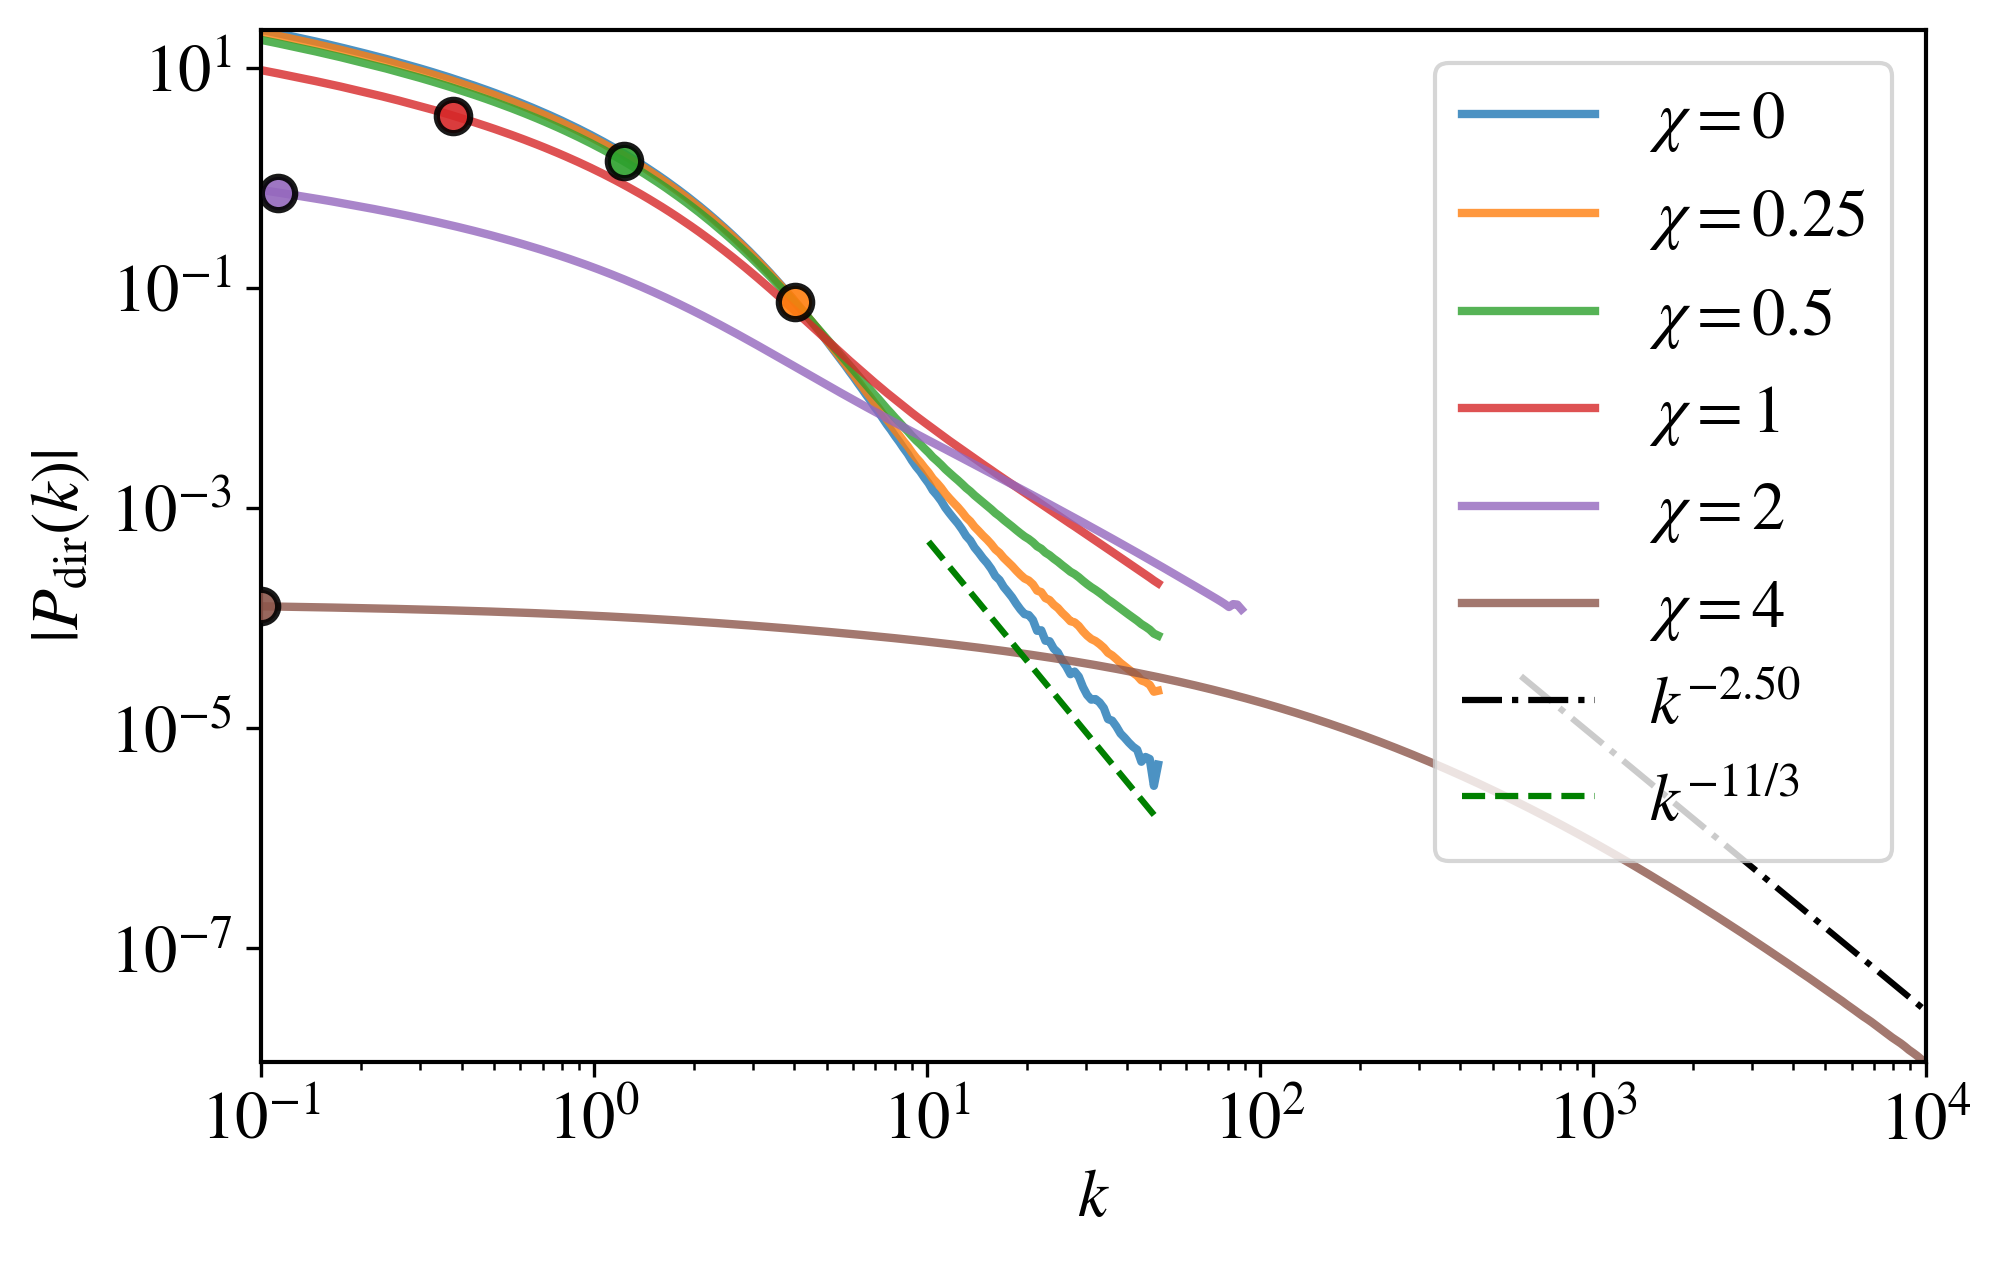
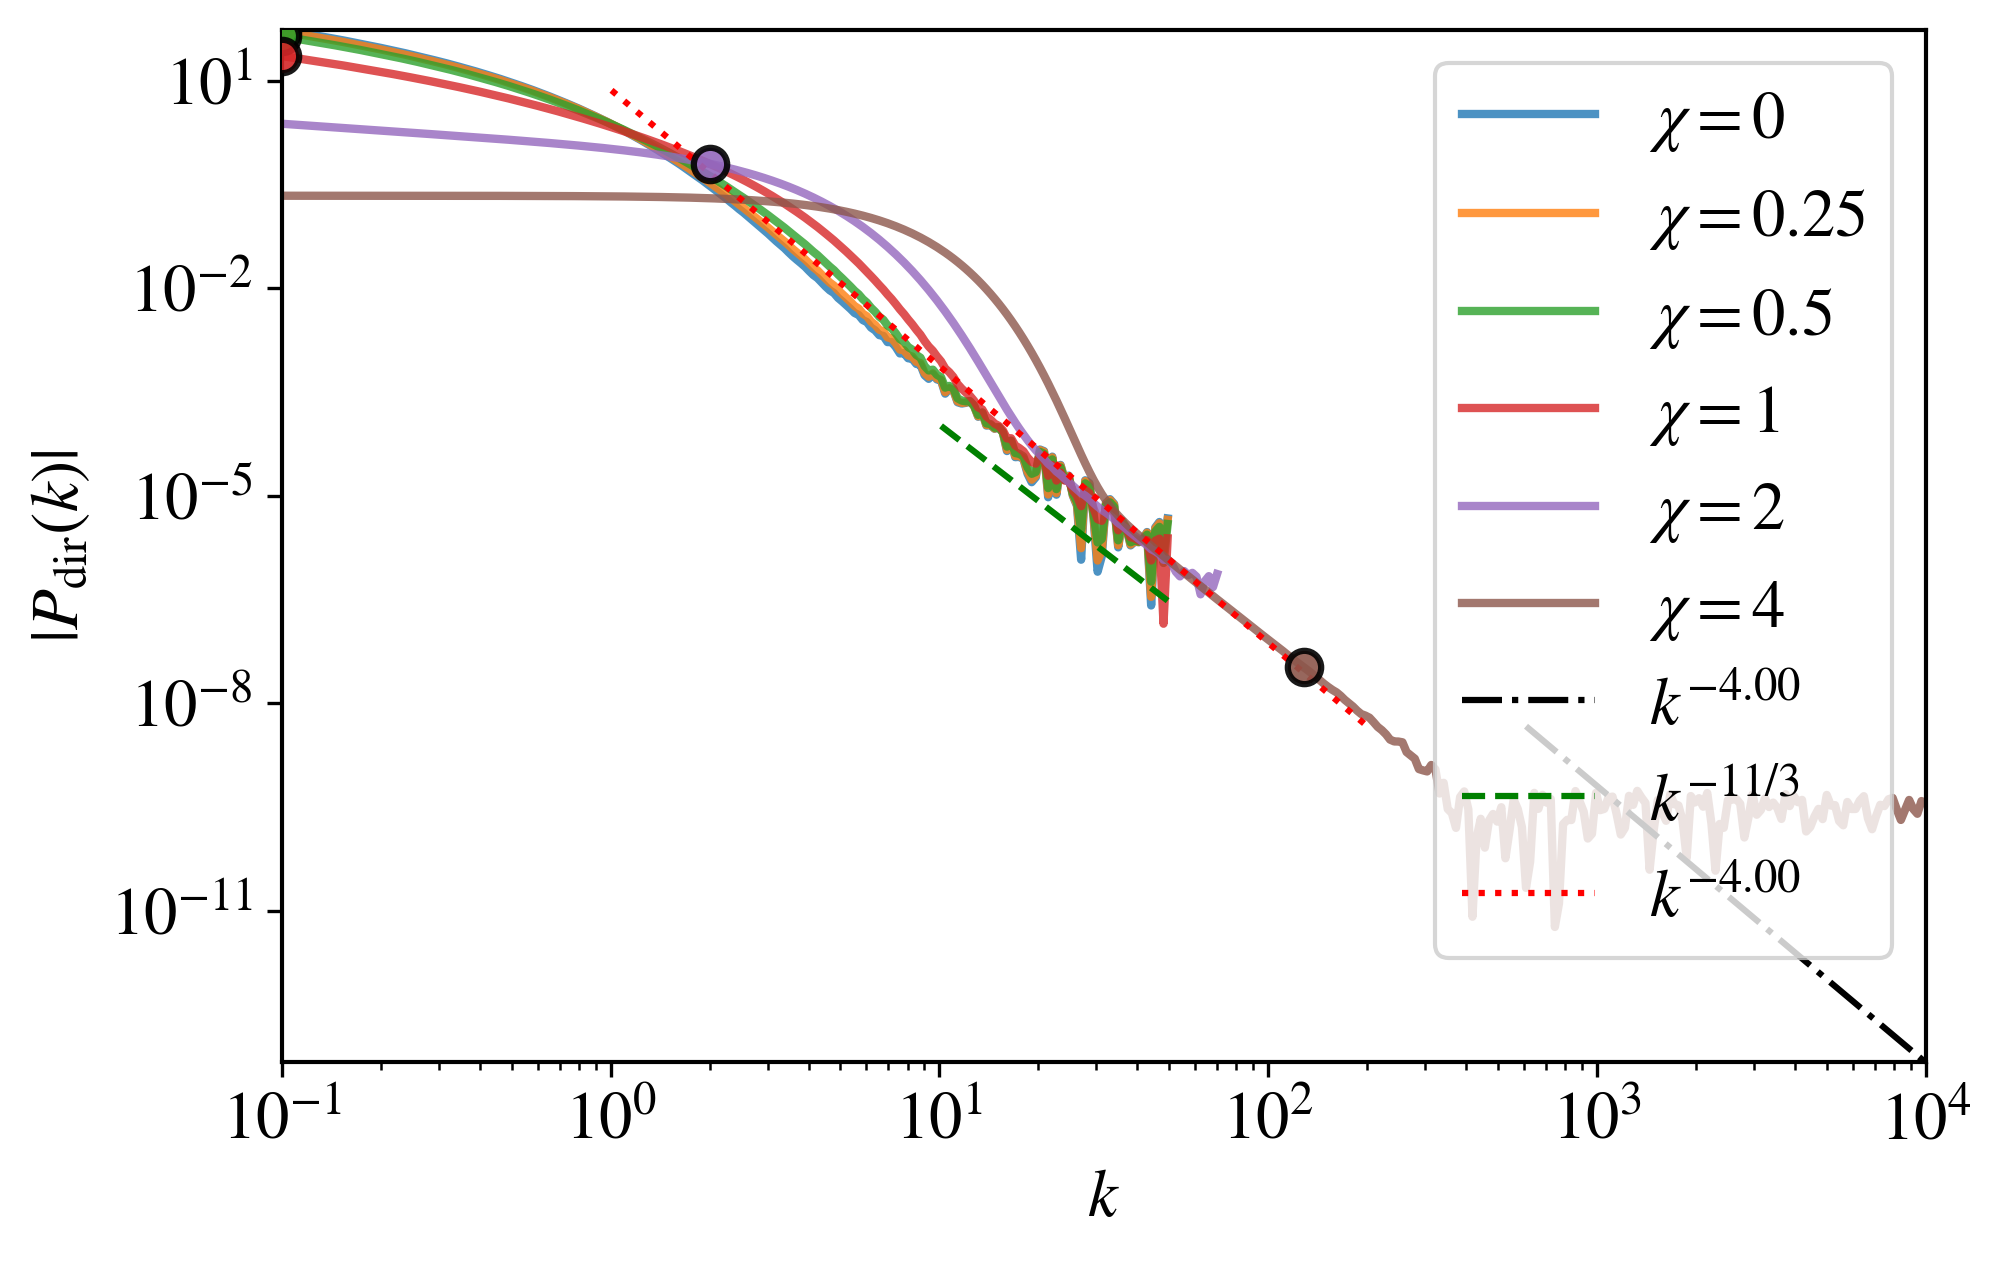
m_phi>m_psi case

diff --git a/compare_measures/directional_spectrum/theor_prediction_director/henkel.py b/compare_measures/directional_spectrum/theor_prediction_director/henkel.py
@@ -59,68 +59,20 @@ def compute_Pdir(k, integrand, Rmax, n_points=50000, Rmin=1e-8):
     val = trapezoidal_integral(integrand_values, R)
     return 2*np.pi * val
 
-def compute_second_derivative(k, Pdir, smoothing_window=10):
-    """
-    Compute the second derivative of log(Pdir) with respect to log(k).
-    Returns k values and second derivative values.
-    """
-    # Filter valid data
-    valid = (np.isfinite(Pdir)) & (Pdir > 0) & (k > 0)
-    if np.sum(valid) < 5:
-        return np.array([]), np.array([])
-    
-    k_valid = k[valid]
-    Pdir_valid = Pdir[valid]
-    
-    # Work in log space
-    log_k = np.log(k_valid)
-    log_Pdir = np.log(Pdir_valid)
-    
-    # Smooth the log data to reduce noise
-    if len(log_Pdir) > smoothing_window:
-        # Simple moving average smoothing
-        half_window = smoothing_window // 2
-        log_Pdir_smooth = np.zeros_like(log_Pdir)
-        for i in range(len(log_Pdir)):
-            start = max(0, i - half_window)
-            end = min(len(log_Pdir), i + half_window + 1)
-            log_Pdir_smooth[i] = np.mean(log_Pdir[start:end])
-    else:
-        log_Pdir_smooth = log_Pdir
-    
-    # Compute first derivative (slope in log-log space)
-    dlogP_dlogk = np.gradient(log_Pdir_smooth, log_k)
-    
-    # Smooth the first derivative
-    if len(dlogP_dlogk) > smoothing_window:
-        half_window = smoothing_window // 2
-        dlogP_dlogk_smooth = np.zeros_like(dlogP_dlogk)
-        for i in range(len(dlogP_dlogk)):
-            start = max(0, i - half_window)
-            end = min(len(dlogP_dlogk), i + half_window + 1)
-            dlogP_dlogk_smooth[i] = np.mean(dlogP_dlogk[start:end])
-    else:
-        dlogP_dlogk_smooth = dlogP_dlogk
-    
-    # Compute second derivative
-    d2logP_dlogk2 = np.gradient(dlogP_dlogk_smooth, log_k)
-    
-    return k_valid, d2logP_dlogk2
-
 
 def main():
     Rmax = 1024*2#256.0
 
-    rphi = 0.1#33.8
+    rphi = 1#33.8
     chi_values = [0,0.25, 0.5,1,2,4]#, 8]#0.8, 2.0, 5.0]
 
     mpsi = 5.0/3.0
-    R0   = 1#55.4
+    R0   = 2#55.4
     A_P  = 1
 
     k_values = np.logspace(np.log10(0.1), np.log10(10000.0), 400)
 
-    mPhi_values = [0.5]#[5.0/3.0, 1.0]
+    mPhi_values = [2]#[5.0/3.0, 1.0]
     colors_mPhi53 = ['#1f77b4', '#ff7f0e', '#2ca02c', '#d62728', '#9467bd', '#8c564b']
     colors_mPhi1 = ['#e377c2', '#17becf', '#bcbd22', '#ff9896', '#c5b0d5', '#ffbb78']
     linestyles = ['-', '--']
@@ -150,7 +102,7 @@ def main():
             if chi < 1.1:
                 k_mask = k_values <= 50
             elif chi<2.5:
-                k_mask = k_values <= 90
+                k_mask = k_values <= 70
             else:
                 k_mask = np.ones(len(k_values), dtype=bool)
             
@@ -168,7 +120,7 @@ def main():
             
             # Calculate and plot k_\times(chi) point
             if chi > 0:  # Skip chi=0 as it would give infinite k_\times
-                k_cross = ((rphi**mPhi) / (chi**2 * R0**mpsi))**(1.0 / (mpsi - mPhi))
+                k_cross = ((A_P * R0**mpsi) / (chi**2 * rphi**mPhi))**(1.0 / (mpsi - mPhi))
                 # Find the index in k_values closest to k_cross
                 idx_cross = np.argmin(np.abs(k_values - k_cross))
                 k_cross_actual = k_values[idx_cross]
@@ -214,6 +166,29 @@ def main():
     plt.loglog(k_ref_11_3_plot[valid_ref_11_3], ref_11_3_plot[valid_ref_11_3], "--", color="green", lw=1.5, alpha=1,
                label=r"$k^{-11/3}$")
 
+    # Plot k^(-2-mPhi) reference line normalized at k=20
+    k_norm = 20.0
+    i_norm = np.argmin(np.abs(k_values - k_norm))
+    for i, mPhi in enumerate(mPhi_values):
+        slope_ref_20 = -(2.0 + mPhi)
+        # Use the first chi=0 result for normalization
+        Pdir_norm = all_Pdir[i * len(chi_values)]
+        norm_value = np.abs(Pdir_norm[i_norm])
+        ref_20 = norm_value * (k_values / k_norm)**(slope_ref_20)
+        # Plot over a reasonable k range
+        mask_k_ref_20 = (k_values > 1) & (k_values < 200)
+        ref_20_plot = ref_20[mask_k_ref_20]
+        k_ref_20_plot = k_values[mask_k_ref_20]
+        valid_ref_20 = (np.isfinite(ref_20_plot)) & (ref_20_plot > 0)
+        
+        if np.any(valid_ref_20):
+            all_k_plotted.extend(k_ref_20_plot[valid_ref_20])
+            all_Pdir_plotted.extend(ref_20_plot[valid_ref_20])
+        
+        plt.loglog(k_ref_20_plot[valid_ref_20], ref_20_plot[valid_ref_20], 
+                  ":", color="red", lw=1.5, alpha=1,
+                  label=rf"$k^{{{slope_ref_20:.2f}}}$" if i == 0 else "")
+
     if len(all_k_plotted) > 0 and len(all_Pdir_plotted) > 0:
         k_min = np.min(all_k_plotted)
         k_max = np.max(all_k_plotted)
@@ -230,93 +205,6 @@ def main():
     plt.savefig("henkel.png", dpi=300, bbox_inches="tight")
     plt.savefig("henkel.pdf", dpi=300, bbox_inches="tight")
     # plt.show()
-    
-    # Create second plot for second derivative
-    plt.figure(figsize=(7, 4.5))
-    
-    all_k_deriv = []
-    all_d2_plotted = []
-    
-    for i, mPhi in enumerate(mPhi_values):
-        for j, chi in enumerate(chi_values):
-            Pdir = all_Pdir[i * len(chi_values) + j]
-            
-            if i == 0:
-                color = colors_mPhi53[j]
-            else:
-                color = colors_mPhi1[j]
-            
-            if chi < 1.1:
-                k_mask = k_values <= 50
-            elif chi<2.5:
-                k_mask = k_values <= 90
-            else:
-                k_mask = np.ones(len(k_values), dtype=bool)
-            
-            k_plot = k_values[k_mask]
-            Pdir_plot = np.abs(Pdir[k_mask])
-            
-            # Filter for k < 6 for second derivative analysis
-            k_mask_deriv = k_plot < 6.0
-            k_plot_deriv = k_plot[k_mask_deriv]
-            Pdir_plot_deriv = Pdir_plot[k_mask_deriv]
-            
-            # Compute second derivative
-            k_deriv, d2logP_dlogk2 = compute_second_derivative(k_plot_deriv, Pdir_plot_deriv, smoothing_window=7)
-            
-            if len(k_deriv) > 0:
-                valid_deriv = (np.isfinite(d2logP_dlogk2)) & (np.isfinite(k_deriv))
-                k_deriv_valid = k_deriv[valid_deriv]
-                d2logP_dlogk2_valid = d2logP_dlogk2[valid_deriv]
-                
-                if len(k_deriv_valid) > 0:
-                    all_k_deriv.extend(k_deriv_valid)
-                    all_d2_plotted.extend(d2logP_dlogk2_valid)
-                    
-                    plt.semilogx(k_deriv_valid, d2logP_dlogk2_valid, color=color, 
-                                linestyle=linestyles[i], lw=2, alpha=0.8,
-                                label=rf"$\chi={chi}$")
-                    
-                    # Calculate and plot k_\times(chi) point on second derivative plot
-                    if chi > 0:  # Skip chi=0 as it would give infinite k_\times
-                        k_cross = ((rphi**mPhi) / (chi**2 * R0**mpsi))**(1.0 / (mpsi - mPhi))
-                        
-                        # Only plot if k_cross < 6 (within our analysis range)
-                        if k_cross < 6.0:
-                            # Find the index in k_deriv_valid closest to k_cross
-                            if len(k_deriv_valid) > 0:
-                                idx_cross = np.argmin(np.abs(k_deriv_valid - k_cross))
-                                k_cross_actual = k_deriv_valid[idx_cross]
-                                d2_cross = d2logP_dlogk2_valid[idx_cross]
-                                
-                                # Only plot if the point is valid
-                                if np.isfinite(d2_cross):
-                                    plt.semilogx(k_cross_actual, d2_cross, 'o', color=color, 
-                                                markersize=8, markeredgecolor='black', markeredgewidth=1.5,
-                                                zorder=10, alpha=0.9)
-                    
-                    # Plot zero line for reference
-                    if j == 0 and i == 0:
-                        plt.axhline(y=0, color='gray', linestyle=':', lw=1, alpha=0.5, zorder=0)
-    
-    if len(all_k_deriv) > 0 and len(all_d2_plotted) > 0:
-        k_min_deriv = np.min(all_k_deriv)
-        k_max_deriv = np.max(all_k_deriv)
-        d2_min = np.min(all_d2_plotted)
-        d2_max = np.max(all_d2_plotted)
-        # Add some padding
-        d2_range = d2_max - d2_min
-        plt.xlim(k_min_deriv, k_max_deriv)
-        plt.ylim(d2_min - 0.1 * d2_range, d2_max + 0.1 * d2_range)
-    
-    plt.xlabel(r"$k$")
-    plt.ylabel(r"$\frac{d^2 \log|P_{\rm dir}|}{d(\log k)^2}$")
-    # plt.title(r"Second derivative of $\log|P_{\rm dir}(k)|$ with respect to $\log k$", fontsize=16)
-    plt.legend()
-    plt.tight_layout()
-    plt.savefig("henkel_second_derivative.png", dpi=300, bbox_inches="tight")
-    plt.savefig("henkel_second_derivative.pdf", dpi=300, bbox_inches="tight")
-    plt.show()
 
 if __name__ == "__main__":
     main()
